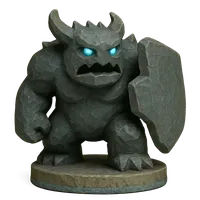
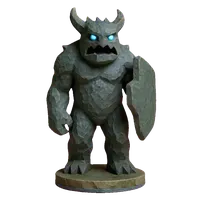
v1.90.23: Hetzer, Wächter und Bollwerk stehen aufrecht und so hoch wie die Offiziere
URSACHE. Am Brett zieht paintedArt.js jeden Teller auf dieselbe Breite
(136 px); es zählt allein Höhe : Teller-Halbbreite. Die drei kauerten
breit auf breiten Tellern und standen bei 56 % (Hetzer), 65 % (Wächter)
und 56 % (Bollwerk) der Offiziershöhe. Besitzer 1.10.: „den Monstern
mehr Höhe geben“; 3.10.: „versuche einfach, sie höher zu machen, dass
sie von der Größe passen … sehr nah an der bestehenden Optik, zeichne
sie nicht komplett neu“.

JETZT: dieselben Figuren aufrecht (der Hetzer sitzt) auf schmaleren
Tellern derselben Bauart – 83 %, 100 % und 94 %. Farbe, Stein, Gesicht,
Hörner, Glutaugen und Zinnenkrone sind die alten.

DER ERSTE ANLAUF WAR FALSCH und ist nirgends eingebaut. Ich hatte „mehr
Höhe und mehr Farbe“ als Neuanstrich gelesen: getigerter Hetzer, Wächter
mit blauem Wappenschild, Bollwerk als gemauerter Turm. Der Besitzer:
„zu weit entfernt von der Optik … insbesondere das Bollwerk sieht
fürchterlich aus“. Zweiter Anlauf mit dem Auftrag „nichts neu malen,
nur die Proportion ändern“, je einmal mit nano-banana/edit und FLUX
Kontext (fal.ai, vom Besitzer freigegeben). Er wählte bei allen dreien
die Kontext-Fassung.

freistellen.py, sechstes Argument (mit Komma):
- taschen: auch eingeschlossener Hintergrund fällt. Mit der alten Regel
  „nur was vom Rand zusammenhängt“ blieben bei aufrecht stehenden
  Figuren Farbflecken zwischen den Beinen und zwischen Arm und Körper.
- streng: nur kräftiges Grün ist Hintergrund. Am Hetzer hielt die weite
[…]

diff --git a/test_ui.jsx b/test_ui.jsx
@@ -163,6 +163,23 @@ const piece = (x = {}) => ({ id: 1, kind: "Q", color: "w", level: 1, abilities: 
     m.tellerVonHand === true && Math.abs((m.boden - m.teller) - (506 + m.ry)) <= 2);
   ok("v1.90.21: seine Sockelkante kommt von Hand (0,12) - gemessen landete sie am Deckel 0,24 und die Glut lief ueber die Fuesse",
     sockelKanteAusCache(PAINTED["boss-b25"]) === 0.12 && sockelKanteAusCache(PAINTED_KLEIN["boss-b25"]) === 0.12);
+  /* ── v1.90.23: HETZER, WAECHTER, BOLLWERK STEHEN AUFRECHT ─────────────────
+     Besitzer 3.10.: "versuche einfach, sie hoeher zu machen, dass sie von der
+     Groesse passen ... sehr nah an der bestehenden Optik". Am Brett zaehlt
+     Hoehe : Teller-Halbbreite; die drei standen bei 56 / 65 / 56 % der
+     Offiziere. Gerechnet wird wie gemessenerFit fuer Monster (ohne Streckung). */
+  const SB3 = JSON.parse(readFileSync("src/app/ui/board/sockelband.json", "utf8"));
+  const amBrett = (id) => { const s = SB3[id]; return (s.boden - s.oben) * Math.max(0.55, Math.min(1.35, 136 / s.rx)) / 561 * 100; };
+  const drei = ["boss-b02", "boss-b01", "boss-b06"].map((id) => `${id} ${amBrett(id).toFixed(1)} %`).join(", ");
+  ok(`v1.90.23: Hetzer, Waechter und Bollwerk stehen am Brett bei mindestens 80 % der Offiziere und nicht darueber (${drei})`,
+    ["boss-b02", "boss-b01", "boss-b06"].every((id) => amBrett(id) >= 80 && amBrett(id) <= 100.5));
+  /* Das Band: seine Oberkante vorne (boden - teller) liegt auf der Vorderkante
+     der Standflaeche, also (untere Ellipsenmitte - teller) + ry. Das ist
+     dieselbe Rechnung wie bei Osric - eine Gegenprobe der drei neuen Teller,
+     darunter der Handwert des Hetzers (49; der alte, 75, galt dem alten Bild). */
+  ok("v1.90.23: ihre Teller liegen 25-55 px hoch, der Handwert des Hetzers gilt dem NEUEN Bild (49, nicht mehr 75)",
+    ["boss-b02", "boss-b01", "boss-b06"].every((id) => SB3[id].teller >= 25 && SB3[id].teller <= 55 && SB3[id].boden === 555 && SB3[id].oben === 21)
+    && SB3["boss-b02"].teller === 49 && SB3["boss-b02"].tellerVonHand === true);
 }
 function SBkrone() { return JSON.parse(readFileSync("src/app/ui/board/sockelband.json", "utf8"))["boss-b25"]; }
 

diff --git a/src/app/ui/SockelBand.jsx b/src/app/ui/SockelBand.jsx
@@ -148,7 +148,9 @@ export function SockelBand({ paintedId, leben = 0, kraft = 0, schaden = 0, grau 
      Stein auf seinen Notnagel 8 zurueck - bei 29 der 69 Figuren.
 
      Zwei Teller haben keinen eindeutigen Knick und sind von Hand gesetzt
-     (`tellerVonHand`): boss-b02 auf 75 und gambit-t2 auf 45. */
+     (`tellerVonHand`): boss-b02 auf 75 und gambit-t2 auf 45.
+     (v1.90.23: der Hetzer hat ein neues Bild, sein Handwert ist jetzt 49 -
+     die Herleitung steht in scripts/messe_tellerkante.py.) */
   /* ── v1.23.9 (Besitzer): DER SOCKEL WIRD NACH UNTEN VERLAENGERT ──────────
      "Du kannst ihn nach unten immer verlaengern. Wichtig ist nur, dass die
      Oberkante sauber erfasst ist. Dann wuerde ich schon versuchen, allen

diff --git a/tools/freistellen.py b/tools/freistellen.py
@@ -65,15 +65,56 @@ def entmagenta(rgb, saum):
     return rgb
 
 
-def freistellen(pfad_ein, pfad_aus, hoehe=None, leinwand=None, luft=0.035, grund="gruen"):
+def maske_gruen_streng(a):
+    """Wie maske_gruen, aber nur KRAEFTIGES Gruen (v1.90.23). Fuer Bilder, in
+    denen der Sockel selbst gruenstichig im Schatten liegt: am Hetzer (FLUX
+    Kontext, 3.10.) hielt die weite Maske die schattige Sockelwand
+    (z. B. 52/75/33) fuer Hintergrund und riss Zacken in den Tellerrand."""
+    r, g, b = a[:, :, 0], a[:, :, 1], a[:, :, 2]
+    maxv = a.max(axis=2)
+    minv = a.min(axis=2)
+    saettigung = (maxv - minv) / np.maximum(maxv, 1)
+    return (g > r + 50) & (g > b + 40) & (saettigung > 0.45)
+
+
+def kraeftig(a, grund):
+    """Unverkennbarer Hintergrund - das Mass, an dem eine TASCHE erkannt wird."""
+    r, g, b = a[:, :, 0], a[:, :, 1], a[:, :, 2]
+    if grund == "magenta":
+        return (r > g + 70) & (b > g + 70)
+    return (g > r + 70) & (g > b + 40)
+
+
+def freistellen(pfad_ein, pfad_aus, hoehe=None, leinwand=None, luft=0.035, grund="gruen", extras=()):
+    """extras (v1.90.23, sechstes Argument, mit Komma getrennt):
+      taschen     - auch EINGESCHLOSSENER Hintergrund faellt (zwischen den
+                    Beinen, zwischen Arm und Koerper). Ohne den Schalter gilt
+                    die alte Regel "nur was vom Rand zusammenhaengt": an den
+                    aufrecht stehenden Monstern blieben sonst farbige Flecken
+                    zwischen den Beinen. Eine Tasche zaehlt ab 40 px und nur,
+                    wenn sie ueberwiegend aus kraeftigem Hintergrund besteht.
+      streng      - nur kraeftiges Gruen ist Hintergrund (maske_gruen_streng).
+      sockelmitte - die Figur wird nach dem SOCKELFUSS mittig gesetzt
+                    (unterste 5 Zeilen, Alpha > 60), nicht nach dem Umriss.
+                    Traegt eine Figur einen Schild an der Seite, sitzt der
+                    Umriss mittig und der Sockel daneben."""
     im = Image.open(pfad_ein).convert("RGB")
     a = np.array(im).astype(int)
 
-    kandidat = maske_magenta(a) if grund == "magenta" else maske_gruen(a)
-    markiert, _ = ndimage.label(kandidat)
+    if grund == "magenta":
+        kandidat = maske_magenta(a)
+    else:
+        kandidat = maske_gruen_streng(a) if "streng" in extras else maske_gruen(a)
+    markiert, anzahl = ndimage.label(kandidat)
     rand = set(markiert[0, :]) | set(markiert[-1, :]) | set(markiert[:, 0]) | set(markiert[:, -1])
     rand.discard(0)
     hintergrund = np.isin(markiert, list(rand))
+    if "taschen" in extras and anzahl:
+        gross = ndimage.sum(kandidat, markiert, range(1, anzahl + 1))
+        stark = ndimage.sum(kraeftig(a, grund) & kandidat, markiert, range(1, anzahl + 1))
+        taschen = [i + 1 for i in range(anzahl)
+                   if (i + 1) not in rand and gross[i] >= 40 and stark[i] / gross[i] > 0.5]
+        hintergrund |= np.isin(markiert, taschen)
 
     alpha = np.where(hintergrund, 0, 255).astype(np.uint8)
     alpha = np.array(Image.fromarray(alpha, "L").filter(ImageFilter.MinFilter(3)))
@@ -100,7 +141,14 @@ def freistellen(pfad_ein, pfad_aus, hoehe=None, leinwand=None, luft=0.035, grund
         L = leinwand
         blatt = Image.new("RGBA", (L, L), (0, 0, 0, 0))
         unten = L - round(L * luft)
-        blatt.paste(frei, ((L - frei.width) // 2, unten - frei.height), frei)
+        links = (L - frei.width) // 2
+        if "sockelmitte" in extras:
+            al = np.array(frei)[:, :, 3]
+            xs = np.where((al[-5:] > 60).any(axis=0))[0]
+            links = int(round(L / 2 - (xs.min() + xs.max()) / 2))
+            if links < 0 or links + frei.width > L:
+                raise SystemExit(f"sockelmitte: der Umriss ragt aus der Leinwand (links {links}, Breite {frei.width})")
+        blatt.paste(frei, (links, unten - frei.height), frei)
         frei = blatt
 
     frei.save(pfad_aus)
@@ -111,4 +159,5 @@ if __name__ == "__main__":
     h = int(sys.argv[3]) if len(sys.argv) > 3 else None
     L = int(sys.argv[4]) if len(sys.argv) > 4 else None
     grund = sys.argv[5] if len(sys.argv) > 5 else "gruen"   # "magenta" fuer gruene Motive
-    print(sys.argv[2], freistellen(sys.argv[1], sys.argv[2], h, L, grund=grund))
+    extras = tuple(sys.argv[6].split(",")) if len(sys.argv) > 6 else ()   # taschen,streng,sockelmitte
+    print(sys.argv[2], freistellen(sys.argv[1], sys.argv[2], h, L, grund=grund, extras=extras))

diff --git a/scripts/messe_tellerkante.py b/scripts/messe_tellerkante.py
@@ -26,12 +26,18 @@ ORDNER = "src/app/ui/assets/painted"
 # ── HANDWERTE ────────────────────────────────────────────────────────────────
 # Zwei Teller haben keinen eindeutigen Knick, deshalb sind sie von Hand
 # gesetzt - nachgemessen am Breitenverlauf, nicht geschaetzt:
-#   boss-b02  faellt in ZWEI Stufen (98,6 % bei 30 px, 89,5 % bei 80, erst bei
-#             110 auf 78,7 %). Der Automat nahm die erste Stufe bei 64. Die
-#             Standflaeche, auf der die Klauen liegen, ist die zweite. An der
-#             Kandidatenleiter abgelesen und vom Besitzer bestaetigt: 75.
-#             ("75 px ist perfekt.") 100 lief durch die Zehen, 90 lag noch zu
-#             hoch am Klauenansatz.
+#   boss-b02  (v1.90.23, der Hetzer SITZT jetzt aufrecht auf einem schmaleren
+#             Teller): der Teller traegt unten einen breiteren Farbring, die
+#             graue Wand darueber ist 3 px schmaler - der Automat hielt diese
+#             Stufe fuer den Knick und meldete 13. Am Breitenverlauf abgelesen:
+#             die Wand steht von der unteren Ellipsenmitte (y 521) bis 48 px
+#             darueber auf 299-302 px Breite und faellt erst ab 52 px steil
+#             (289, 275, 253). Gesetzt auf 49. Gegenprobe ueber das Band:
+#             Boden 555 - 49 = 506, die Vorderkante der Standflaeche liegt bei
+#             (521 - 49) + ry 33,7 = 505,7.
+#             Bis v1.90.22 stand hier 75 - das galt dem ALTEN Bild (kauernd,
+#             Teller 497 px breit, vom Besitzer bestaetigt: "75 px ist
+#             perfekt") und passt zum neuen nicht mehr.
 #   gambit-t2 hat denselben Sockel wie gambit-t3 (Profil deckungsgleich: 98 %
 #             bei 40, 90 % bei 50, 75 % bei 60), der Automat fand aber einen
 #             Scheinknick bei 14. Gesetzt auf 45, wie bei t3 gemessen.
@@ -48,7 +54,7 @@ ORDNER = "src/app/ui/assets/painted"
 #             muss weiter runter"): in v1.90.21 stand hier 49 - ich hatte
 #             Boden minus Wandoberkante gerechnet und ry NICHT abgezogen. Das
 #             Band stand 25 px zu hoch, seine Oberkante lag auf den Fuessen.
-HANDWERTE = {"boss-b02": 75, "gambit-t2": 45, "boss-b25": 24}
+HANDWERTE = {"boss-b02": 49, "gambit-t2": 45, "boss-b25": 24}
 MASSE = json.load(open("src/app/ui/board/sockelband.json"))
 
 def kante(fid, m):

diff --git a/CLAUDE.md b/CLAUDE.md
@@ -41,8 +41,8 @@ gambitrise.com zeigt darauf).
   pruefe-navigation, pruefe-textfluss, test_layout) lesen den Chromium-Pfad aus
   `PW_CHROMIUM`; ohne die Variable gilt der Pfad des Cloud-Containers. Lokal:
   `npx playwright install chromium` und `PW_CHROMIUM=<Pfad zur chrome-Datei>`.
-- `npm test` — volle Batterie. MUSS **31 Suiten / 2653 Prüfungen** melden
-  (Stand v1.90.22; der Runner stoppt nach der ersten roten Suite, also
+- `npm test` — volle Batterie. MUSS **31 Suiten / 2655 Prüfungen** melden
+  (Stand v1.90.23; der Runner stoppt nach der ersten roten Suite, also
   Suitenzahl prüfen, nicht nur Assertions! **Zählweise seit v1.90.18
   (Audit A74): JEDE Suite der Kette meldet eine RESULT-Zeile** — alle Zeilen
   `RESULT…: N passed` summieren; test_balance meldet zwei, darum stehen im
@@ -258,6 +258,13 @@ starten, sonst reißen Werkzeug-Zeitlimits den Lauf ab.
    (das erste Ergebnis ohne -S ist oft der 5-KB-Stub). Cloudflare-Hashes
    weichen von lokalen ab — NIE per Hash vergleichen, nur per Marker.
 
+**Die Halle kann beim Bau hängen bleiben, ohne dass am Code etwas ist**
+(gemessen 3.10. im Cloudflare-Dashboard, Workers → gg-hall → Deployments →
+Build history): der Lauf für v1.90.21 endete nach 5 min mit „Build failed to
+initialize and was timed out“ — `/health` blieb auf 1.90.20, bis der nächste
+Push durchlief. Zeigt `/health` nach einem Push die alte Fassung: dort
+nachsehen und „Retry build“, nicht im Repo suchen.
+
 **DIE CI SPERRT DEN DEPLOY NICHT** (Audit A27). Cloudflare Pages baut bei
 JEDEM Push auf main und fragt das Ergebnis von `.github/workflows/ci.yml`
 nicht ab — ein roter Lauf hält nichts auf. Seit v1.90.11 fährt die CI
@@ -342,6 +349,34 @@ Quelltext lesen hat wiederholt getäuscht; gemessen wird am lebenden DOM
   Bild liegt unten bündig 68 × 68).
 - **`tools/freistellen.py … magenta`**: für Figuren mit echtem Grün (Efeu,
   Moos) — auf Grün würde `entgruenen()` die ganze Figur entfärben.
+  **Sechstes Argument (v1.90.23), mit Komma:** `taschen` (eingeschlossener
+  Hintergrund zwischen Beinen und Armen fällt mit — bei jeder aufrecht
+  stehenden Figur nötig), `streng` (nur kräftiges Grün ist Hintergrund; sonst
+  reißt eine grünstichige Sockelwand im Schatten Zacken in den Tellerrand),
+  `sockelmitte` (gesetzt wird nach dem Sockelfuß, nicht nach dem Umriss —
+  nötig, sobald etwas seitlich absteht).
+- **Monster höher machen heißt: dieselbe Figur, andere Proportion** (Besitzer
+  3.10., nachdem ein Neuanstrich verworfen wurde: „zu weit entfernt von der
+  Optik“). Auftrag an die Bild-KI: nichts neu malen, keine neuen Farben oder
+  Details, nur aufrechter und auf schmalerem Teller derselben Bauart. FLUX
+  Kontext (`fal-ai/flux-pro/kontext`) hielt die Optik besser als nano-banana;
+  beide je einmal laufen lassen und nebeneinander zeigen. Kontext legt einen
+  Schlagschatten auf den Farbgrund — darum `streng`.
+- **`sockelband.json` nie als Ganzes neu schreiben:** ein Gesamtlauf von
+  `scripts/messe_sockel.py` verschiebt bei elf alten Figuren `ring`, `schatten`
+  oder `oben` (gemessen 3.10. — alter Drift der Datei gegen das Skript). Mit
+  `AUS=<datei>` in eine Nebendatei messen und nur die geänderten Einträge
+  übernehmen; `teller` kommt aus `messe_tellerkante.py` (dort `kante()`), der
+  Breitenverlauf daneben zeigt, ob der Automat eine Stufe im Teller für den
+  Knick hält (Hetzer: 13 statt 49).
+- **Claude in Chrome bei verdecktem Fenster:** ist das Chrome-Fenster des
+  Besitzers minimiert oder verdeckt (`document.visibilityState === "hidden"`),
+  schlagen Bildschirmfotos der Play Console fehl und ihre Dialoge öffnen nicht
+  — `requestAnimationFrame` steht. Abhilfe ohne den Besitzer zu stören: per
+  `javascript_tool` `window.requestAnimationFrame = cb => setTimeout(() =>
+  cb(performance.now()), 16)` setzen, Knöpfe per `.click()` auslösen und den
+  Dialogtext aus `[role=dialog]` lesen. Das Cloudflare-Dashboard braucht das
+  nicht.
 - `piece.tier` steuert Rangbilder (gambit-t2…t6, pawn-t2/t3) und wird von
   makePiece durchgereicht — bei neuen Figurenfeldern dort ergänzen.
 - Ausgemusterte Assets nach `archiv/ausgemustert/vX.Y.Z/`, Bild-Rohlinge
@@ -360,7 +395,7 @@ Quelltext lesen hat wiederholt getäuscht; gemessen wird am lebenden DOM
   Auswahl-Lichtspektakel.
 - Alles Optionale abschaltbar (Klang, Online).
 
-## Offene Baustellen (Stand v1.90.22, 1.10.2026)
+## Offene Baustellen (Stand v1.90.23, 3.10.2026)
 
 **Einstieg für jede neue Sitzung: `design/CHAT-EINSTIEG-2026-09-27.md`** (zehn
 Minuten, mit dem Startsatz für den Chat), dann **`design/UEBERGABE-2026-09-27.md`** — Stand,
@@ -375,10 +410,10 @@ Hier nur der Überblick:
 
 - **Monster überarbeiten, vier je Runde** (Besitzer 1.10.): per fal-Edit am
   bestehenden Bild (nur mit Freigabe), dann lokal auf Höhe gerechnet wie
-  Osric, am Brett neben dem Springer gezeigt, erst dann eingebaut. Runde 1
-  (freigegeben): Bollwerk, Sturmklaue, Wächter, Hetzer — Auftrag liegt bereit,
-  wartet auf den fal-Schlüssel. Runde 2: Zerreißer, Streuner, Brandstifter,
-  Skorpion. Runde 3 (nur Akzente): Schleicher, Flüsterin, Brutmutter. Geist
+  Osric, am Brett neben dem Springer gezeigt, erst dann eingebaut. **Hetzer,
+  Wächter und Bollwerk sind seit v1.90.23 eingebaut** (nur höher, Optik
+  unverändert — so auch die weiteren). Offen aus Runde 1: Sturmklaue. Runde 2:
+  Zerreißer, Streuner, Brandstifter, Skorpion. Runde 3 (nur Akzente): Schleicher, Flüsterin, Brutmutter. Geist
   und Wandlerin bleiben. · Play-Abzeichen als Datei für die Startseite (A58).
 - **Spiel:** „Die Karte erzählt die Geschichte" (Besitzer 27.9.: **später**) ·
   **Ladeschirm-Feinschliff** (subjektiv, braucht Live-Abnahme).
@@ -391,9 +426,12 @@ Hier nur der Überblick:
   (Cloudflare-Dashboard, Besitzer).
 - **Technik:** Deploy wiegt 743 MB, davon 692 MB Archiv für die Schaukammer
   (Schalter `OHNE_ARCHIV=1` liegt bereit, Standard unverändert) · `.git` 1 GB.
-- **Store:** interner Test läuft (2.10.); als Nächstes S6 (erster Start am
-  Handy: keine Passwortabfrage, keine graue Browserleiste), dann S7–S9 — siehe
-  `design/PLAYSTORE-BACKLOG.md`.
+- **Store:** interner Test läuft (2.10.), die zehn Änderungen an Eintrag und
+  App-Inhalten sind seit 3.10. bei Google in Prüfung. **Offen: die
+  Installation am Handy des Besitzers scheitert** („Bei uns ist ein Fehler
+  aufgetreten“, Ursache ungeklärt — das Bundle ist gültig). Danach S6, dann
+  S7–S9; die Pflicht „12 Tester, 14 Tage“ gilt für dieses Konto (im Dashboard
+  nachgelesen) — siehe `design/PLAYSTORE-BACKLOG.md`.
 
 **Erledigt und aus dieser Liste gestrichen** (die alte Fassung stand auf
 v1.0.62 und führte längst Gebautes als offen): Sperren kaufen/setzen

diff --git a/CHANGELOG.md b/CHANGELOG.md
@@ -1,5 +1,60 @@
 # Changelog - Gambit Rise
 
+## 1.90.23 - Hetzer, Waechter und Bollwerk stehen aufrecht und so hoch wie die Offiziere
+
+**DREI MONSTER WAREN AM BRETT ZU KLEIN** (Besitzer 1.10.: "den Monstern mehr
+Hoehe geben"; 3.10.: "versuche einfach, sie hoeher zu machen, dass sie von der
+Groesse passen ... sehr nah an der bestehenden Optik, zeichne sie nicht komplett
+neu"). Ursache ist die Brettregel, nicht das Brett: paintedArt.js zieht jeden
+Teller auf dieselbe Breite (136 px), es zaehlt also allein Hoehe :
+Teller-Halbbreite. Die drei kauerten breit auf breiten Tellern - Hetzer 56 %,
+Waechter 65 %, Bollwerk 56 % der Offiziershoehe.
+
+Jetzt stehen bzw. sitzen sie aufrecht auf schmaleren Tellern derselben Bauart:
+Hetzer 83 %, Waechter 100 %, Bollwerk 94 %. Farbe, Stein, Gesicht, Hoerner,
+Glutaugen und Zinnenkrone sind die alten.
+
+**DER ERSTE ANLAUF WAR FALSCH** und ist nicht eingebaut: ich hatte "mehr Hoehe
+und mehr Farbe" (1.10.) als Neuanstrich gelesen - getigerter Hetzer, Waechter
+mit blauem Wappenschild, Bollwerk als gemauerter Turm mit Tor und Wimpeln. Der
+Besitzer: "zu weit entfernt von der Optik ... insbesondere das Bollwerk sieht
+fuerchterlich aus". Zweiter Anlauf mit dem Auftrag "nichts neu malen, nur die
+Proportion aendern", je einmal mit nano-banana/edit und FLUX Kontext (beide
+ueber fal.ai, vom Besitzer freigegeben). Gewaehlt hat er bei allen dreien die
+Kontext-Fassung.
+
+**freistellen.py kann drei Dinge mehr** (sechstes Argument, mit Komma):
+- `taschen`: auch EINGESCHLOSSENER Hintergrund faellt. Die alte Regel "nur was
+  vom Rand zusammenhaengt" liess bei aufrecht stehenden Figuren gruene und
+  magentafarbene Flecken zwischen den Beinen und zwischen Arm und Koerper.
+- `streng`: nur kraeftiges Gruen ist Hintergrund. Am Hetzer hielt die weite
+  Maske die schattige, gruenstichige Sockelwand fuer Hintergrund und riss
+  Zacken in den Tellerrand.
+- `sockelmitte`: gesetzt wird nach dem Sockelfuss, nicht nach dem Umriss. Der
+  Waechter traegt den Schild an der Seite - mittig nach dem Umriss stand sein
+  Sockel 4 px neben der Bildmitte.
+
+**Masse.** sockelband.json: nur die drei Eintraege ersetzt (ein Gesamtlauf von
+messe_sockel.py haette bei elf weiteren Figuren `ring`, `schatten` oder `oben`
+um ein bis fuenfzehn Pixel verschoben - das ist alter Drift der Datei gegen
+das Skript, nicht von heute, und bleibt unberuehrt). Der Handwert des Hetzers
+in messe_tellerkante.py ist 49 statt 75: 75 galt dem alten Bild; am neuen
+hielt der Automat die Stufe zwischen Farbring und grauer Wand fuer den Knick
+(13). Figurfarbe: Hetzer und Bollwerk neu gemessen; der Waechter behaelt sein
+Blaugruen - gemessen kaemen 44 braune Pixel des Sockelrands heraus, die Farbe
+der Figur sind ihre Augen.
+
+**Startseite.** gal-waechter.webp und die beiden Brettbilder sind aus den
+heutigen Figuren neu gerechnet (im Gefechtsbild steht der Waechter in der
+eigenen Reihe).
+
+Die alten Bilder liegen in archiv/ausgemustert/v1.90.23/, die drei Originale
+(1024 px, wie von fal geliefert) in archiv/bilder/painted/.
+
+Proben: 31 Suiten / 2655 Pruefungen (vorher 2653) - zwei neue in test_ui: die
+drei stehen bei 80-100 % der Offiziere, und ihre Teller sind die der neuen
+Bilder.
+
 ## 1.90.22 - Osrics Lebensband sitzt wieder auf dem Sockel, sein Umhangfutter laeuft gerade bis zum Saum
 
 **DAS BAND STAND 25 PX ZU HOCH** (Besitzer: "das Band unten ist voellig fehl am

diff --git a/design/PLAYSTORE-BACKLOG.md b/design/PLAYSTORE-BACKLOG.md
@@ -197,6 +197,25 @@
   der Release veröffentlicht ist — die Console warnt nur klein („noch keine
   Tester festgelegt").
 
+  **OFFEN SEIT 3.10.2026: DIE INSTALLATION SCHEITERT AM HANDY DES BESITZERS.**
+  Der Play Store zeigt die App („com.gambitrise.app (unreviewed)"), nach
+  „Installieren" kommt „Fehler – Bei uns ist ein Fehler aufgetreten. Bitte
+  versuche es noch einmal." Gemessen: das Bundle ist gültig (`bundletool
+  validate`), und `bundletool build-apks` erzeugt daraus fehlerfrei Splits und
+  eine Universal-APK; die Meldung ist die allgemeine des Stores. Einen
+  Pre-Launch-Bericht gibt es für den internen Test nicht (er entsteht erst im
+  geschlossenen Test). Noch nicht geprüft, weil nur am Handy möglich: Cache
+  des Play Store leeren, aktives Konto im Store, eine früher direkt
+  installierte `Gambit Rise.apk` aus dem PWABuilder-ZIP (anderer Schlüssel).
+
+  **3.10.2026, 19:40: zehn Änderungen zur Prüfung eingereicht.** Unter
+  *Veröffentlichungen – Übersicht* lagen Store-Einträge (de-DE, en-US),
+  Einstufung des Inhalts, Zielgruppe, Datenschutzerklärung, Werbung,
+  Datensicherheit, Gesundheits-Apps, Formfaktoren und App-Kategorie als
+  „noch nicht zur Überprüfung eingereicht" — S1 bis S3 waren also gespeichert,
+  aber nie abgeschickt. Jetzt: „Deine Änderungen werden jetzt überprüft"
+  (Google nennt bis zu 7 Tage).
+
   *Der ursprüngliche Arbeitsauftrag (überholt):* nach S4 eine Sache von Minuten und
   **ohne Google-Prüfung**: Play Console → Testen und Veröffentlichen →
   *Interner Test* → Neue Version erstellen → `.aab` hineinziehen →
@@ -242,8 +261,10 @@
   hinüberkopieren, Tester per E-Mail-Liste eintragen, Release einführen.
 
 - [ ] **S8 12 Tester, 14 Tage am Stück.** Pflicht für private
-  Entwicklerkonten, die nach dem 13.11.2023 angelegt wurden — **für dieses
-  Konto noch zu prüfen**. Zeit im *internen* Test zählt dafür nicht.
+  Entwicklerkonten, die nach dem 13.11.2023 angelegt wurden — **gilt für
+  dieses Konto** (3.10.2026 im Dashboard nachgelesen: „Mindestens 12 Tester
+  müssen sich für deinen geschlossenen Test anmelden – momentan sind 0 Tester
+  angemeldet"). Zeit im *internen* Test zählt dafür nicht.
 
 - [ ] **S9 Produktionszugriff beantragen, dann einreichen.** Prüfung durch
   Google meist einige Tage. Danach funktioniert der Link, auf den das

diff --git a/archiv/ausgemustert/v1.90.23/WARUM.md b/archiv/ausgemustert/v1.90.23/WARUM.md
@@ -1,0 +1,24 @@
+# Ausgemustert in v1.90.23
+
+## painted-boss-b02, -b01, -b06 (+ klein/) — Hetzer, Wächter, Bollwerk in ihrer kauernden Haltung
+
+Besitzer, 1.10.2026: „wichtig ist halt echt, dass wir den Monstern zum Teil mehr
+Höhe geben“. 3.10.2026: „versuche einfach, sie höher zu machen, dass sie von der
+Größe passen … sehr nah an der bestehenden Optik“.
+
+Am Brett zieht `paintedArt.js` jeden Teller auf dieselbe Breite; es zählt also
+Höhe : Teller-Halbbreite. Diese drei Bilder hatten breite Teller und flache
+Körper:
+
+| Figur | Teller-Halbbreite | Höhe am Brett |
+|---|---|---|
+| Hetzer (b02) | 248,5 px | 56 % der Offiziere |
+| Wächter (b01) | 197,5 px | 65 % |
+| Bollwerk (b06) | 201,0 px | 56 % |
+
+Die neuen Bilder zeigen dieselben Figuren aufrecht (der Hetzer sitzt) auf
+schmaleren Tellern: 83 %, 100 %, 94 %. Erzeugt mit FLUX Kontext aus genau den
+Bildern hier, Auftrag „nichts neu malen, nur die Proportion ändern“.
+
+Ein erster Anlauf mit neuen Farben (getigerter Hetzer, blauer Wappenschild,
+gemauerter Turm) wurde vom Besitzer verworfen und ist nirgends eingebaut.
